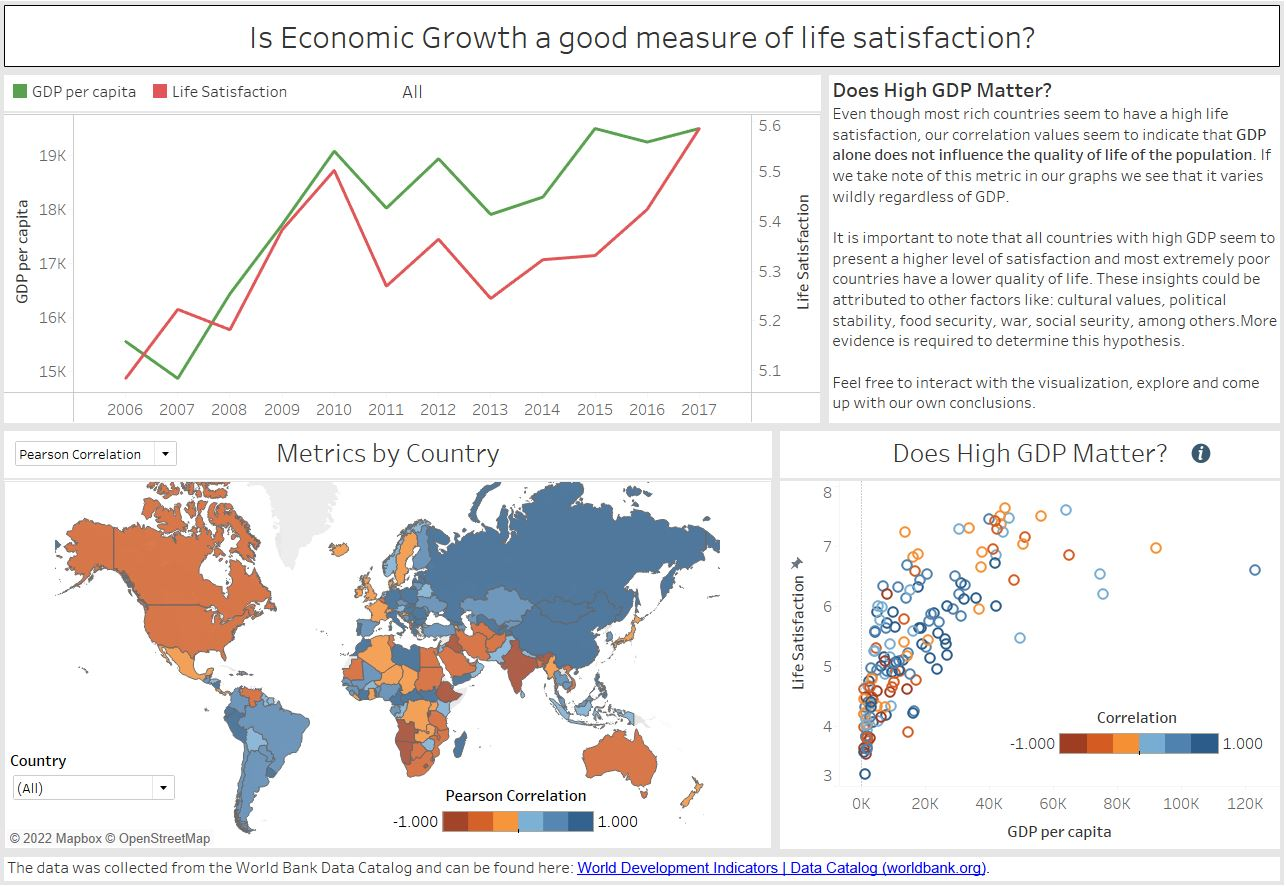
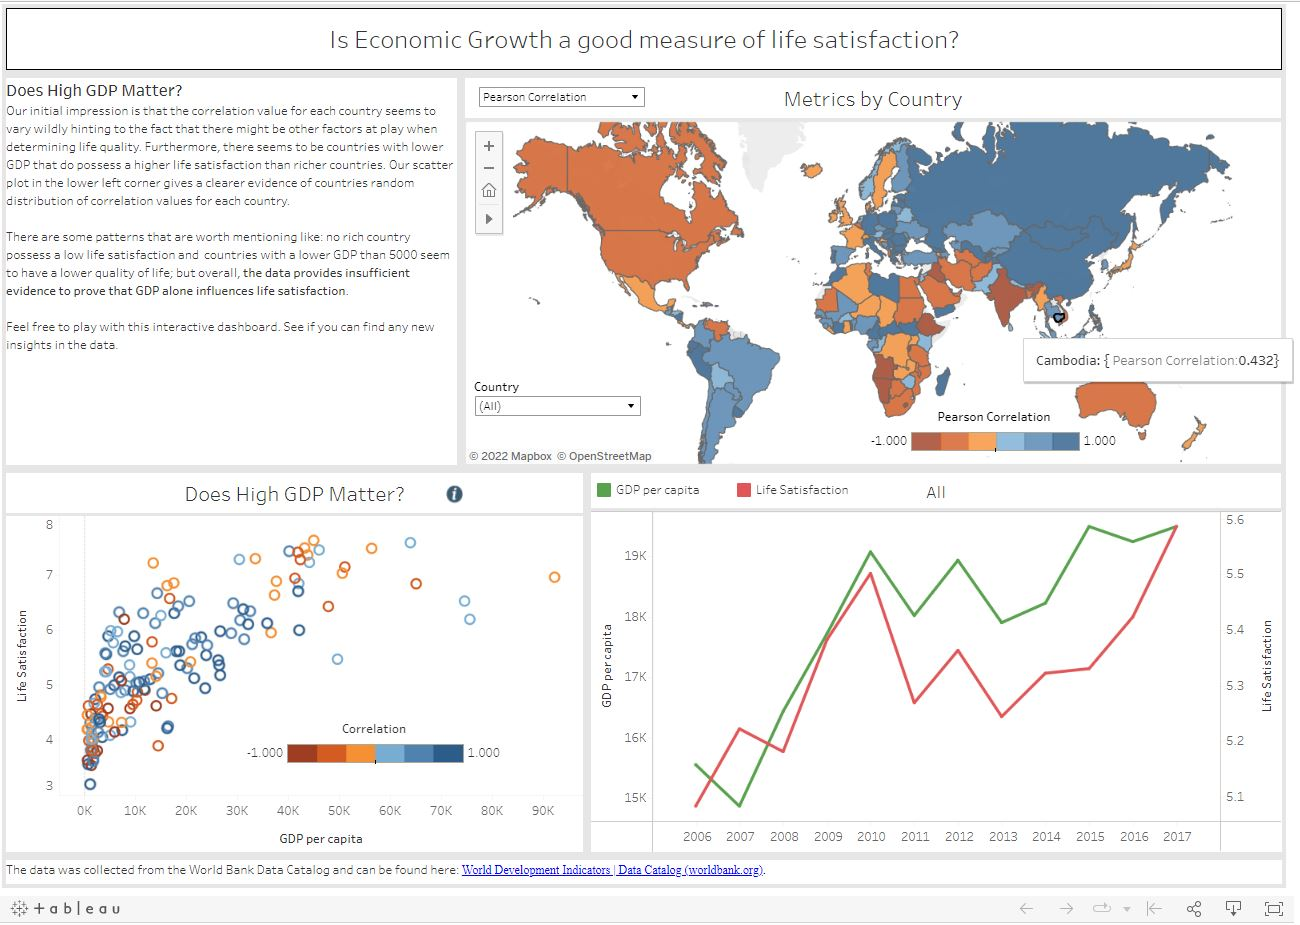
Added new project life-gdp

diff --git a/index.html b/index.html
@@ -246,6 +246,29 @@
       <!-- project -->
       <div class="row skills-table">
         <div class="offset-lg-1 col-lg-6">
+          <h3>Life Satisfaction VS GDP per capita</h3>
+          <p>A study through visualiztions to understand the relationship between economic development and perceived life satisfaction.</p>
+          <ul class='list'>
+            <li><span>Category: </span>Data Visualization</li>
+            <li><span>Tools: </span>Tableau</li>
+            <div class="bar">
+              <ul class='proj-bar'>
+                <li><a href="" target="_blank"><i class="icon-port fa-brands fa-github fa-2x"></i></a></li>
+                <li><a class="btn btn-success btn-sm" href='https://public.tableau.com/views/Lifesatisfactionvsgdppercapita/GDPperCapitavsLifeSatisfaction?:language=en-US&:display_count=n&:origin=viz_share_link' target="_blank">Demo</a></li>
+              </ul>
+            </div>
+          </ul>
+        </div>
+        <div class="col-lg-4">
+          <div class="right-image">
+            <img class="img-fluid" src="images\life-gdp.JPG" alt="Demo image" />
+          </div>
+        </div>
+      </div>
+
+      <!-- project -->
+      <div class="row skills-table">
+        <div class="offset-lg-1 col-lg-6">
           <h3>Image Compression using Machine Learning</h3>
           <p>Quick and easy implementation of K-means clustering algorithm for image compression by grouping together similar color values in an image and reducing it's memory requirements.</p>
           <ul class='list'>
